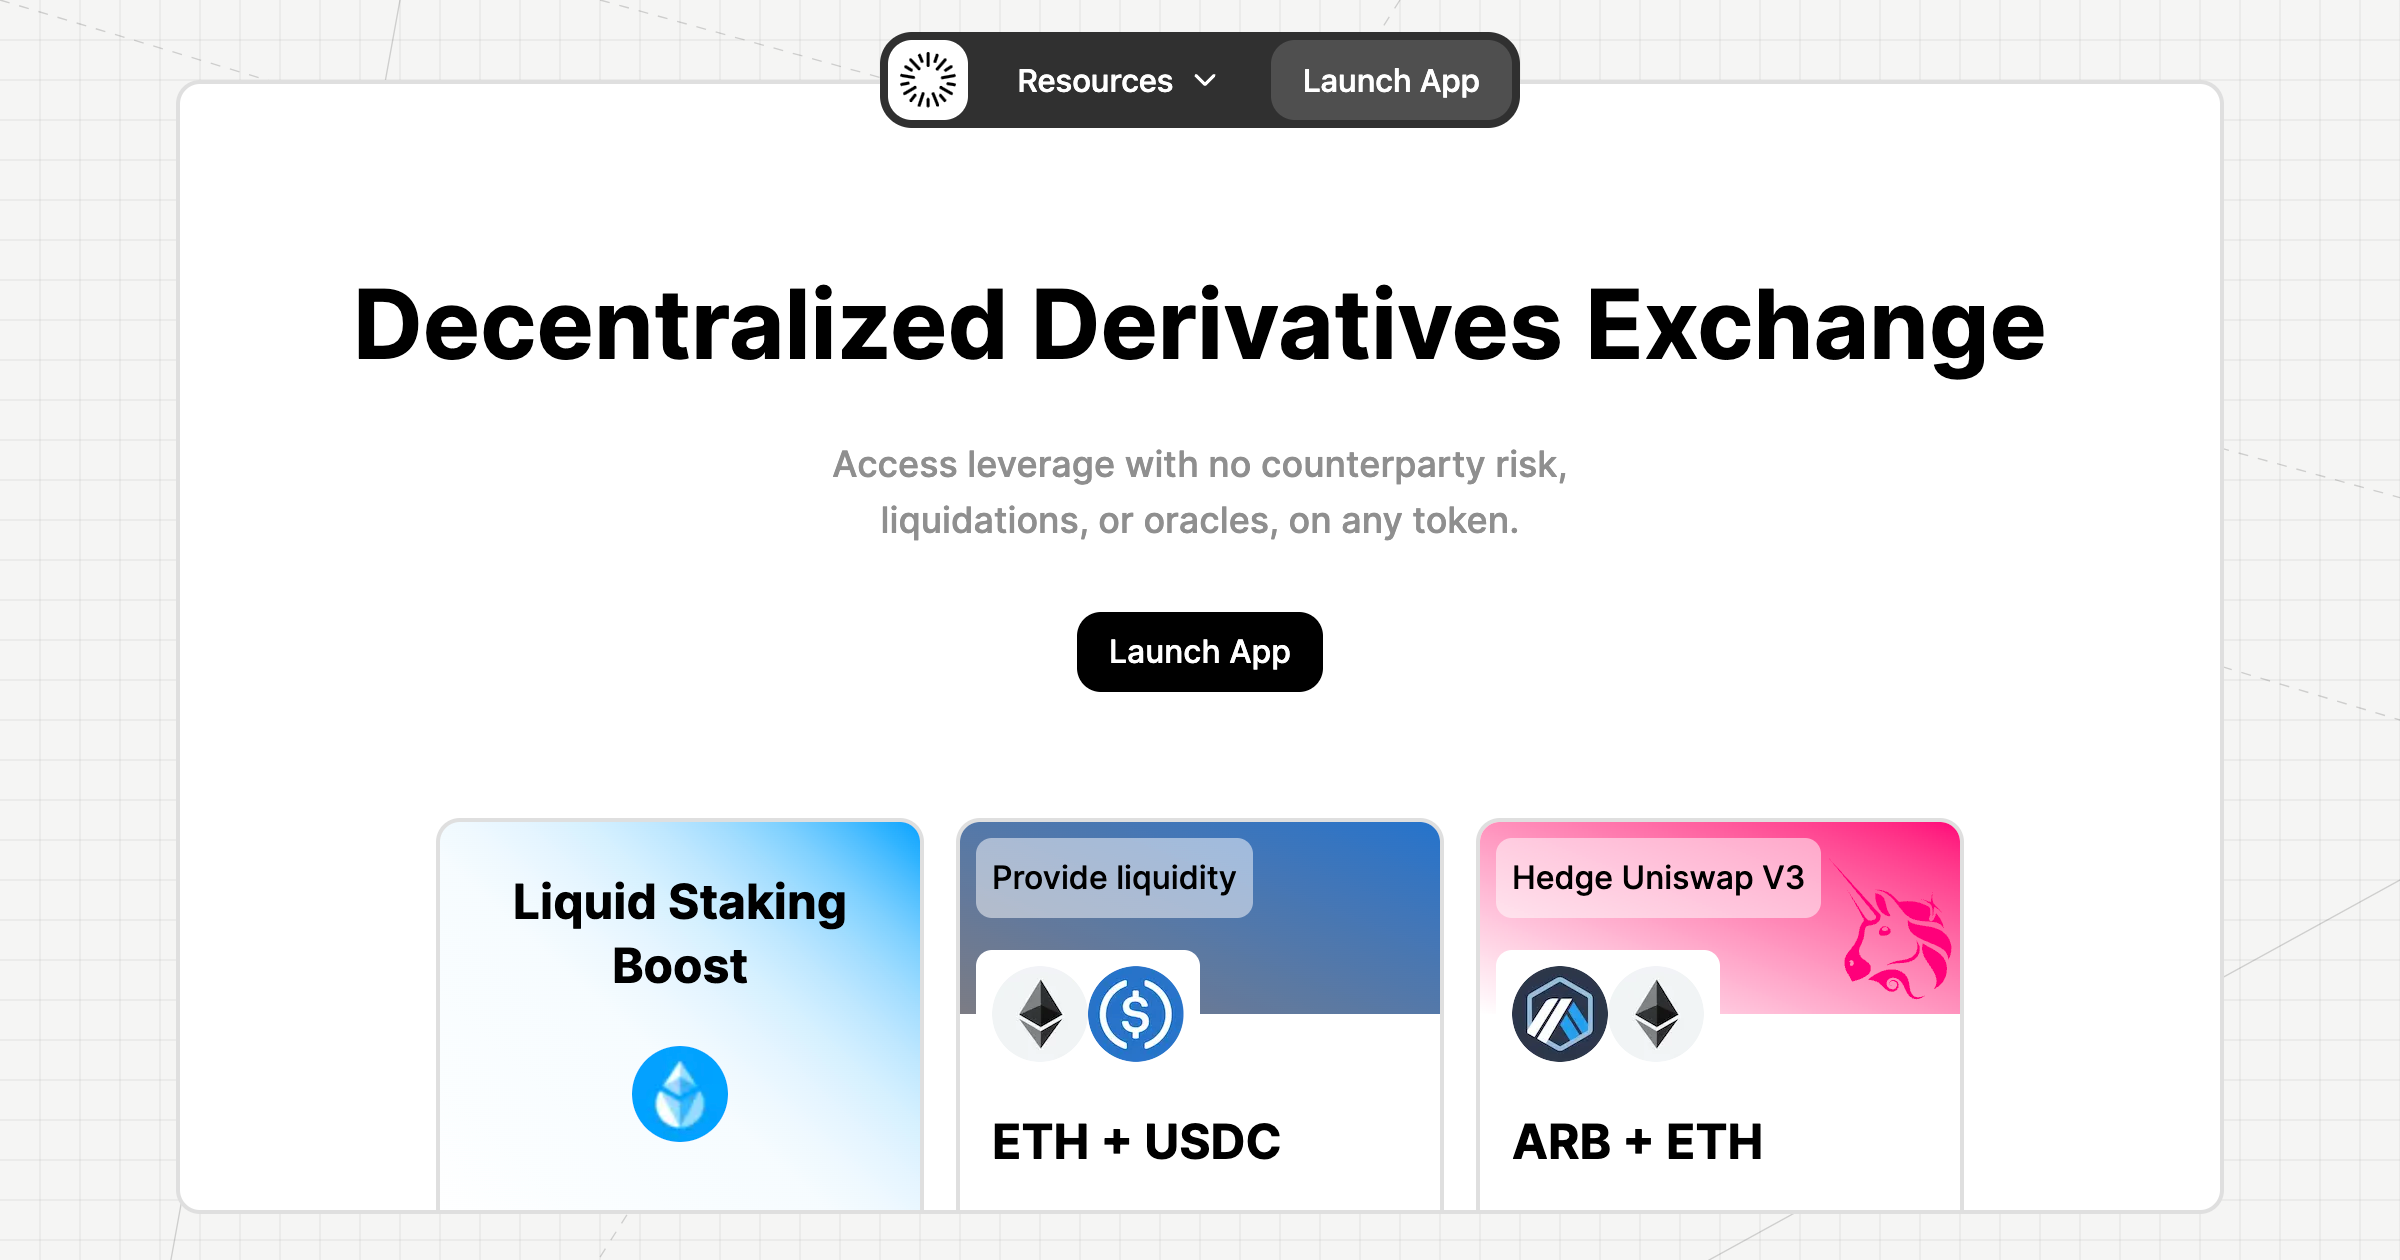
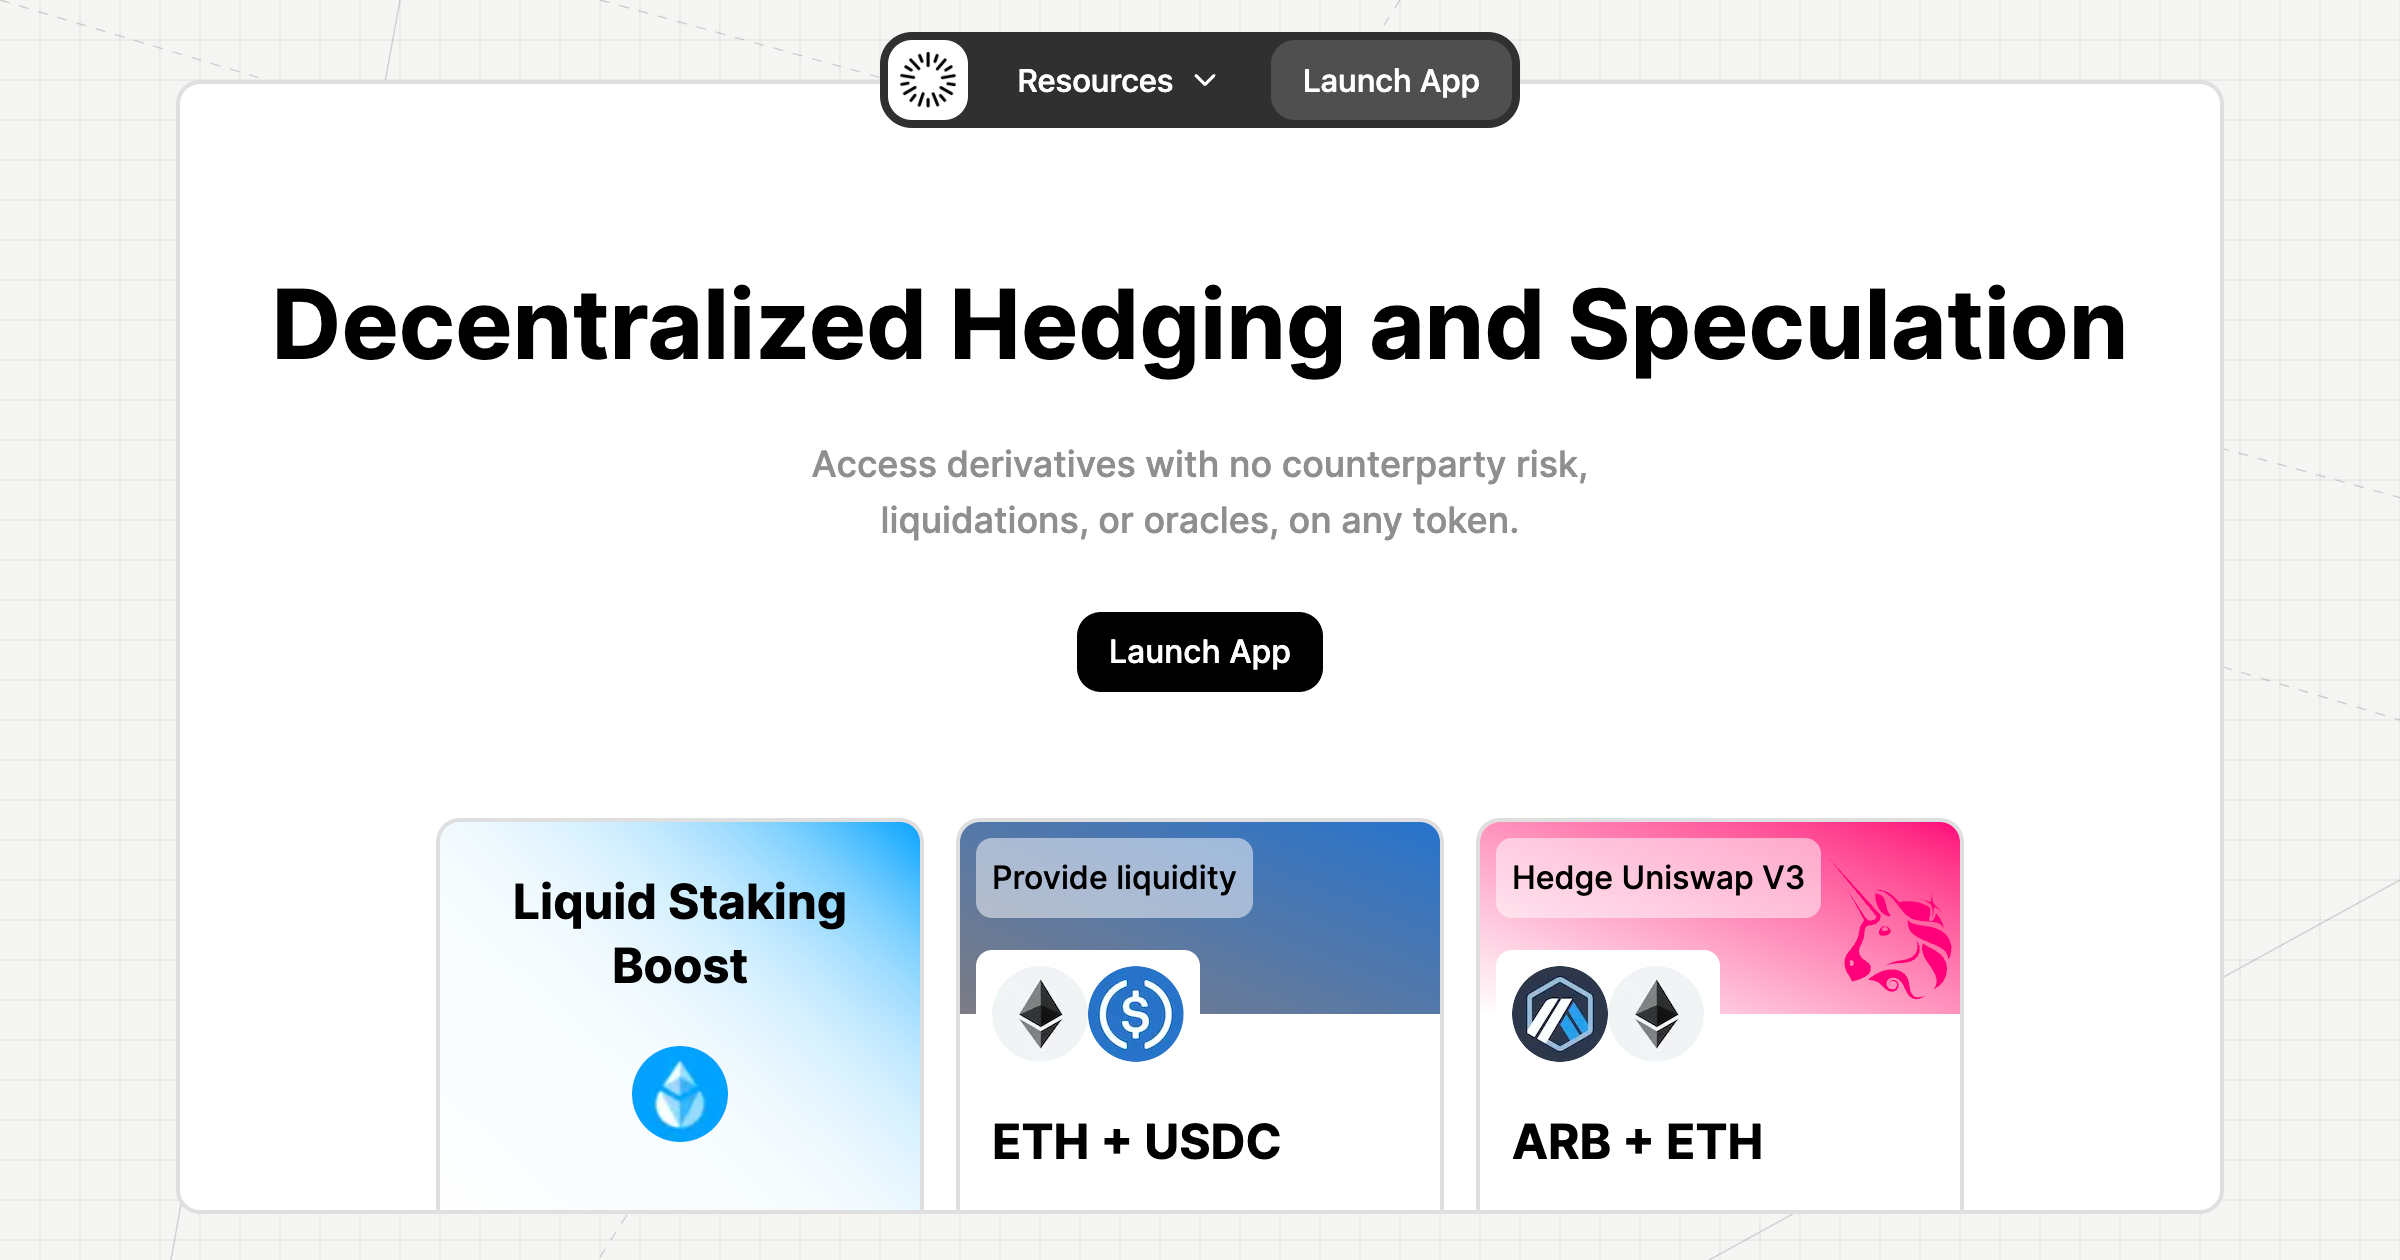
update image and path

Changed region(s): [[0.0938, 0.2167, 0.9062, 0.3095], [0.3438, 0.3405, 0.5312, 0.4024], [0.5625, 0.3405, 0.6562, 0.4024]]

diff --git a/pages/index.tsx b/pages/index.tsx
@@ -14,9 +14,10 @@ export default function Home() {
       </Head>
       <div className="top-card flex flex-col h-[90vh] overflow-clip pt-12 sm:pt-24">
         <div className="flex h-full flex-col items-center gap-8">
-          <h1 className="text-center">Hedge any Uniswap position!</h1>
-          <p className="p3 max-w-md text-center text-2xl">
-            Earn fees from Uniswap with no impermanent loss.
+          <h1 className="text-center">Decentralized Hedging and Speculation</h1>
+          <p className="p3 max-w-md text-center text-lg">
+            Access derivatives with no counterparty risk, liquidations, or
+            oracles, on any token.
           </p>
           <Link href="https://app.numoen.com">
             <Button variant="primary">Launch App</Button>
@@ -40,15 +41,23 @@ export default function Home() {
         <div className="grid w-full gap-6 sm:grid-cols-3">
           <div className="">
             <p className="p2">Gamma Neutral Vault</p>
-            <p className="p3">Uniswap positions loose money. Our vault hedges the volatility risk so you don't have to worry about it.</p>
+            <p className="p3">
+              Impermanent loss of Uniswap can be offset by PMMP derivatives.
+            </p>
           </div>
           <div className="">
-            <p className="p2">Decentralized</p>
-            <p className="p3">No one owns the protocol. PMMP has no governable parameters and no external oracle dependencies.</p>
+            <p className="p2">Real Decentralization</p>
+            <p className="p3">
+              A protocol owned by no one. PMMP has no governable parameters and
+              no external oracle dependencies.
+            </p>
           </div>
           <div className="">
             <p className="p2">Open-source and Audited</p>
-            <p className="p3">The codebase is 100% open source and completely immutable. Please check the docs to review our audits.</p>
+            <p className="p3">
+              The codebase is 100% open source and completely immutable. Please
+              check the docs to review our audits.
+            </p>
           </div>
         </div>
       </div>

diff --git a/pages/_document.tsx b/pages/_document.tsx
@@ -12,18 +12,12 @@ export default function Document() {
         <meta property="og:title" content={"Numoen"} />
         <meta property="og:description" content={description} />
         <meta property="og:site_name" content={"Numoen"} />
-        <meta
-          property="og:image"
-          content="https://landing-next-jade.vercel.app/image.png"
-        />
+        <meta property="og:image" content="https://numoen.com/image.png" />
         <meta property="twitter:card" content="summary_large_image" />
         <meta property="twitter:creator" content={"numoen"} />
         <meta property="twitter:title" content={"Numoen"} />
         <meta property="twitter:description" content={description} />
-        <meta
-          property="twitter:image"
-          content="https://landing-next-jade.vercel.app/image.png"
-        />
+        <meta property="twitter:image" content="https://numoen.com/image.png" />
       </Head>
       <body>
         <Main />

diff --git a/components/header.tsx b/components/header.tsx
@@ -33,7 +33,7 @@ const NumoenIcon: React.FC = () => {
   return (
     <Link className="h-10 w-10 rounded-xl bg-white p-1.5" href="/">
       <Image
-        src="/numoen.svg"
+        src="/numoen.png"
         alt="Numoen Logo"
         width={30}
         height={30}
